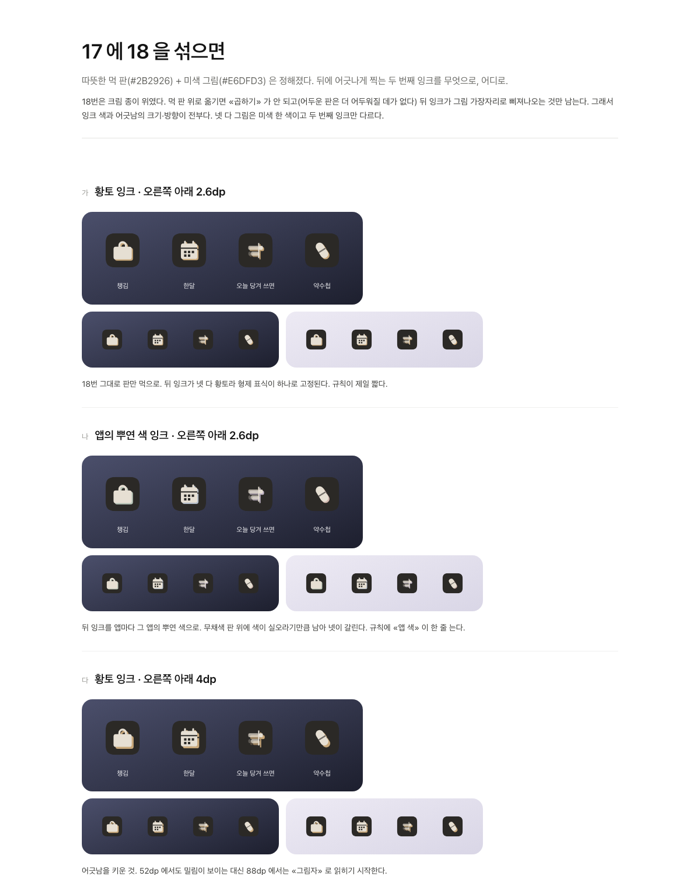
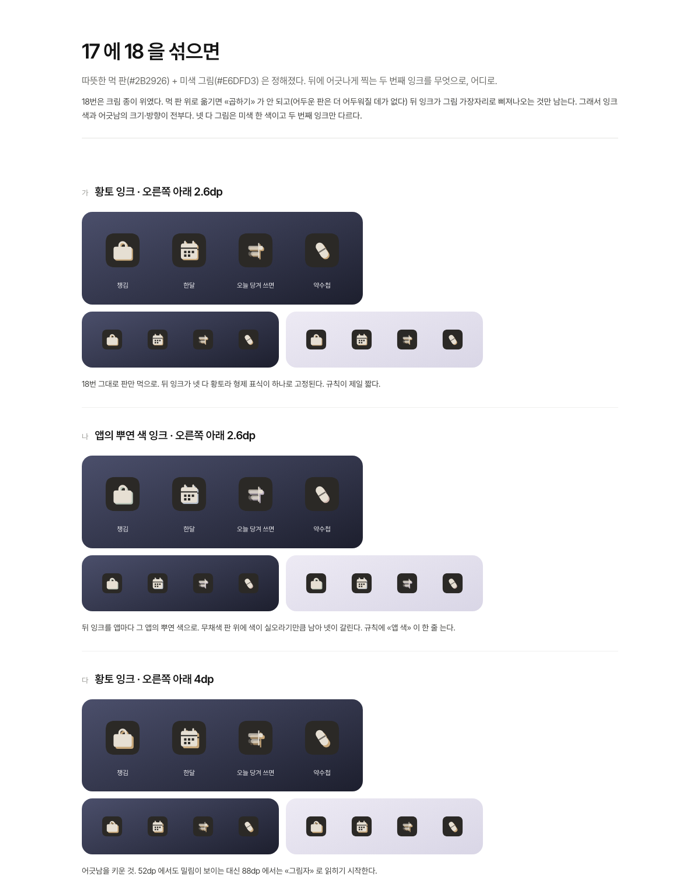
약수첩 설명서 갱신 — 작게, 설명선이 내용을 안 덮게 (#4)

diff --git a/public/p/pillbox/manual.html b/public/p/pillbox/manual.html
@@ -3,176 +3,198 @@
 <link href="https://cdn.jsdelivr.net/gh/orioncactus/pretendard@v1.3.9/dist/web/static/pretendard.min.css" rel="stylesheet">
 <style>
 :root{--bg:#EDEAE3;--card:#FBF9F5;--ink:#2B2926;--sec:#5A554F;--mut:#8F887D;--acc:#A8834F;--num:#C9A87A;--rule:#E4DFD5}
-*{box-sizing:border-box} body{margin:0;background:var(--bg);color:var(--ink);font:16px/1.65 "Pretendard",-apple-system,system-ui,sans-serif}
-.wrap{max-width:1160px;margin:0 auto;padding:64px 36px 120px}
-h1{font-size:46px;letter-spacing:-.02em;font-weight:700;margin:0 0 4px}
+*{box-sizing:border-box} body{margin:0;background:var(--bg);color:var(--ink);font:15px/1.65 "Pretendard",-apple-system,system-ui,sans-serif}
+.wrap{max-width:960px;margin:0 auto;padding:56px 32px 100px}
+h1{font-size:38px;letter-spacing:-.02em;font-weight:700;margin:0 0 4px}
 .tag{color:var(--mut);font-size:17px;margin:0 0 30px}
-h2{font-size:24px;font-weight:700;margin:64px 0 12px}
-.cap{color:var(--sec);font-size:16px;margin:8px 0 0;width:53.20%} .cap.wide{width:auto;margin-top:18px}
+h2{font-size:21px;font-weight:700;margin:52px 0 10px}
+.cap{color:var(--sec);font-size:15px;margin:8px 0 0;width:55.10%} .cap.wide{width:auto;margin-top:18px}
 .lead{color:var(--sec);margin:-4px 0 12px}
 svg.fig{display:block;width:100%;height:auto;margin:6px 0 0} svg.fig text{font-family:"Pretendard",-apple-system,system-ui,sans-serif}
-.hero{display:block;width:53.20%;border-radius:26px;border:1px solid var(--rule)}
+.hero{display:block;width:55.10%;border-radius:26px;border:1px solid var(--rule)}
 .hero.none{padding:40px 24px;color:var(--mut);background:var(--card);font-size:14px}
-.steps{display:grid;grid-template-columns:repeat(3,1fr);gap:14px;margin:14px 0 0;width:53.20%}
+.steps{display:grid;grid-template-columns:repeat(3,1fr);gap:14px;margin:14px 0 0;width:55.10%}
 .step{background:var(--card);border-radius:18px;padding:18px 18px 16px;border:1px solid var(--rule)}
 .step b{display:block;font-size:24px;color:var(--num);margin-bottom:4px} .step span{display:block;font-weight:700} .step i{font-style:normal;color:var(--mut);font-size:14px}
 .cases{display:grid;grid-template-columns:repeat(2,1fr);gap:14px;margin:14px 0 0}
 .case{background:var(--card);border-radius:18px;padding:18px 20px;border:1px solid var(--rule)} .case b{display:block;margin-bottom:4px} .case p{margin:0;color:var(--sec);font-size:15px}
 .moment{background:var(--card);border:1px solid var(--rule);border-radius:26px;padding:22px 26px 26px;margin:18px 0 0}
-.moment h2{margin:0 0 10px;font-size:22px}
+.moment h2{margin:0 0 8px;font-size:19px}
 .foot{color:var(--mut);font-size:13.5px;margin-top:48px}
 @media (max-width:760px){.wrap{padding:32px 16px 80px} .hero,.steps,.cap{width:100%} .cases,.steps{grid-template-columns:1fr}}
 </style></head><body><div class="wrap">
-<h1>약수첩</h1><p class="tag">먹고 바르고 넣는 약을 홈 화면에서 챙긴다</p><img class="hero" src="img/widget.png" alt=""><p class="cap">홈 화면 위젯. 윗줄이 지금 구간의 약, 아랫줄이 나머지 셋 — 다 챙겼으면 체크, 남았으면 개수. 맨 아래 인공눈물 띠는 두 번 누른다. 여기서 보고, 앱에서 누른다.</p><h2>처음 세 걸음</h2><div class="steps"><div class="step"><b>1</b><span>약을 넣는다</span><i>약 목록에서 이름 · 모양 · 색 · 언제</i></div><div class="step"><b>2</b><span>위젯을 올린다</span><i>홈 화면에 2칸짜리</i></div><div class="step"><b>3</b><span>먹고 누른다</span><i>앱에서 체크, 인공눈물은 띠에서</i></div></div><h2>이럴 때 이렇게</h2><div class="cases"><div class="case"><b>아침에 먹고</b><p>앱을 열어 아침 카드의 줄을 눌러요. 영양제 넷은 한 번에. 5시 20분이 돼도 알림은 안 와요 — 이미 했으니까.</p></div><div class="case"><b>깜빡했을 때</b><p>구간 시각에 알림이 하나. 남은 것 이름만 적혀 있고, <b>먹었어요</b> 를 누르면 그 구간이 통째로 체크돼요. 정해 둔 시간이 지나면 알림은 스스로 사라져요.</p></div><div class="case"><b>인공눈물을 넣고</b><p>위젯 띠를 두 번. 한 번은 «한 번 더 눌러서 확정», 4초 안에 한 번 더. 간격(기본 60분)이 지나면 물방울이 빨개져요.</p></div><div class="case"><b>잘못 눌렀을 때</b><p>몇 분 안엔 같은 줄을 다시 눌러요(기본 5분). 지나면 그대로 굳어요 — 잘못 눌렀을 때만 고치라고 두는 시간이에요.</p></div><div class="case"><b>늦게라도</b><p>타일은 자정까지 눌러 채울 수 있어요. 알림이 사라진 뒤에도요.</p></div><div class="case"><b>토요일 아침</b><p>일주일치 약통을 채우라는 알림. 매일 챙기는 일이 아니라 위젯엔 안 서요. <b>채웠어요</b> 를 누르면 기록에 남아요.</p></div></div><section class="moment"><h2>아침에 먹고 나서</h2><svg class="fig" viewBox="0 0 2030 1842" xmlns="http://www.w3.org/2000/svg" xmlns:xlink="http://www.w3.org/1999/xlink" role="img">
+<h1>약수첩</h1><p class="tag">먹고 바르고 넣는 약을 홈 화면에서 챙긴다</p><img class="hero" src="img/widget.png" alt=""><p class="cap">홈 화면 위젯. 윗줄이 지금 구간의 약, 아랫줄이 나머지 셋 — 다 챙겼으면 체크, 남았으면 개수. 맨 아래 인공눈물 띠는 두 번 누른다. 여기서 보고, 앱에서 누른다.</p><h2>처음 세 걸음</h2><div class="steps"><div class="step"><b>1</b><span>약을 넣는다</span><i>약 목록에서 이름 · 모양 · 색 · 언제</i></div><div class="step"><b>2</b><span>위젯을 올린다</span><i>홈 화면에 2칸짜리</i></div><div class="step"><b>3</b><span>먹고 누른다</span><i>앱에서 체크, 인공눈물은 띠에서</i></div></div><h2>이럴 때 이렇게</h2><div class="cases"><div class="case"><b>아침에 먹고</b><p>앱을 열어 아침 카드의 줄을 눌러요. 영양제 넷은 한 번에. 5시 20분이 돼도 알림은 안 와요 — 이미 했으니까.</p></div><div class="case"><b>깜빡했을 때</b><p>구간 시각에 알림이 하나. 남은 것 이름만 적혀 있고, <b>먹었어요</b> 를 누르면 그 구간이 통째로 체크돼요. 정해 둔 시간이 지나면 알림은 스스로 사라져요.</p></div><div class="case"><b>인공눈물을 넣고</b><p>위젯 띠를 두 번. 한 번은 «한 번 더 눌러서 확정», 4초 안에 한 번 더. 간격(기본 60분)이 지나면 물방울이 빨개져요.</p></div><div class="case"><b>잘못 눌렀을 때</b><p>몇 분 안엔 같은 줄을 다시 눌러요(기본 5분). 지나면 그대로 굳어요 — 잘못 눌렀을 때만 고치라고 두는 시간이에요.</p></div><div class="case"><b>늦게라도</b><p>타일은 자정까지 눌러 채울 수 있어요. 알림이 사라진 뒤에도요.</p></div><div class="case"><b>토요일 아침</b><p>일주일치 약통을 채우라는 알림. 매일 챙기는 일이 아니라 위젯엔 안 서요. <b>채웠어요</b> 를 누르면 기록에 남아요.</p></div></div><section class="moment"><h2>아침에 먹고 나서</h2><svg class="fig" viewBox="0 0 1960 1842" xmlns="http://www.w3.org/2000/svg" xmlns:xlink="http://www.w3.org/1999/xlink" role="img">
 <clipPath id="cp_main_top"><rect x="0" y="0" width="1080" height="1842" rx="36"/></clipPath>
 <image href="img/main_top.png" xlink:href="img/main_top.png" x="0" y="0" width="1080" height="1920" clip-path="url(#cp_main_top)"/>
 <rect x="2" y="2" width="1076" height="1838" rx="34" fill="none" stroke="#E4DFD5" stroke-width="4"/>
-<ellipse cx="910.0" cy="460.0" rx="84.0" ry="39.0" fill="none" stroke="#A8834F" stroke-width="5"/>
-<path d="M 998 460.0 H 1115.0 V 438.0 H 1134" fill="none" stroke="#A8834F" stroke-width="4"/>
-<circle cx="998" cy="460.0" r="9" fill="#A8834F"/>
-<text x="1150" y="452.0" font-size="40" font-weight="700" fill="#2B2926">구간이 끝나면 «다 했어요»</text>
-<text x="1150" y="510.0" font-size="33" fill="#5A554F">구간마다 카드 하나. 이름 옆이 알림 시각이에요.</text>
-<ellipse cx="885.5" cy="614.0" rx="108.5" ry="40.0" fill="none" stroke="#A8834F" stroke-width="5"/>
-<path d="M 998 614.0 H 1115.0 V 592.0 H 1134" fill="none" stroke="#A8834F" stroke-width="4"/>
-<circle cx="998" cy="614.0" r="9" fill="#A8834F"/>
-<text x="1150" y="606.0" font-size="40" font-weight="700" fill="#2B2926">줄을 누르면 체크</text>
-<text x="1150" y="664.0" font-size="33" fill="#5A554F">시각이 남고, 몇 분 안엔 다시 눌러 되돌려요.</text>
-<rect x="218" y="993" width="589" height="80" rx="18" fill="none" stroke="#A8834F" stroke-width="5"/>
-<path d="M 817 1033.0 H 1115.0 V 1011.0 H 1134" fill="none" stroke="#A8834F" stroke-width="4"/>
-<circle cx="817" cy="1033.0" r="9" fill="#A8834F"/>
-<text x="1150" y="1025.0" font-size="40" font-weight="700" fill="#2B2926">영양제는 한 줄</text>
-<text x="1150" y="1083.0" font-size="33" fill="#5A554F">한 번에 먹으니 한 번에 체크돼요.</text>
-<ellipse cx="916.0" cy="1677.0" rx="78.0" ry="39.0" fill="none" stroke="#A8834F" stroke-width="5"/>
-<path d="M 998 1677.0 H 1115.0 V 1655.0 H 1134" fill="none" stroke="#A8834F" stroke-width="4"/>
-<circle cx="998" cy="1677.0" r="9" fill="#A8834F"/>
-<text x="1150" y="1669.0" font-size="40" font-weight="700" fill="#2B2926">지금 구간은 밝은 판</text>
-<text x="1150" y="1727.0" font-size="33" fill="#5A554F">남은 개수가 서요.</text>
-</svg></section><section class="moment"><h2>인공눈물과 타임라인</h2><svg class="fig" viewBox="0 0 2030 1884" xmlns="http://www.w3.org/2000/svg" xmlns:xlink="http://www.w3.org/1999/xlink" role="img">
+<rect x="834" y="427" width="152" height="66" rx="14" fill="#A8834F" opacity=".16"/>
+<path d="M 988 460.0 H 1080" stroke="#A8834F" stroke-width="2" stroke-dasharray="5 7" opacity=".55"/>
+<path d="M 1080 460.0 H 1110.0 V 441.0 H 1126" fill="none" stroke="#A8834F" stroke-width="3"/>
+<circle cx="1080" cy="460.0" r="7" fill="#A8834F"/>
+<text x="1140" y="453.0" font-size="34" font-weight="700" fill="#2B2926">구간이 끝나면 «다 했어요»</text>
+<text x="1140" y="501.0" font-size="28" fill="#5A554F">구간마다 카드 하나. 이름 옆이 알림 시각이에요.</text>
+<rect x="785" y="580" width="201" height="68" rx="14" fill="#A8834F" opacity=".16"/>
+<path d="M 988 614.0 H 1080" stroke="#A8834F" stroke-width="2" stroke-dasharray="5 7" opacity=".55"/>
+<path d="M 1080 614.0 H 1110.0 V 595.0 H 1126" fill="none" stroke="#A8834F" stroke-width="3"/>
+<circle cx="1080" cy="614.0" r="7" fill="#A8834F"/>
+<text x="1140" y="607.0" font-size="34" font-weight="700" fill="#2B2926">줄을 누르면 체크</text>
+<text x="1140" y="655.0" font-size="28" fill="#5A554F">시각이 남고, 몇 분 안엔 다시 눌러 되돌려요.</text>
+<rect x="220" y="995" width="585" height="76" rx="14" fill="#A8834F" opacity=".16"/>
+<path d="M 807 1033.0 H 1080" stroke="#A8834F" stroke-width="2" stroke-dasharray="5 7" opacity=".55"/>
+<path d="M 1080 1033.0 H 1110.0 V 1014.0 H 1126" fill="none" stroke="#A8834F" stroke-width="3"/>
+<circle cx="1080" cy="1033.0" r="7" fill="#A8834F"/>
+<text x="1140" y="1026.0" font-size="34" font-weight="700" fill="#2B2926">영양제는 한 줄</text>
+<text x="1140" y="1074.0" font-size="28" fill="#5A554F">한 번에 먹으니 한 번에 체크돼요.</text>
+<rect x="846" y="1644" width="140" height="66" rx="14" fill="#A8834F" opacity=".16"/>
+<path d="M 988 1677.0 H 1080" stroke="#A8834F" stroke-width="2" stroke-dasharray="5 7" opacity=".55"/>
+<path d="M 1080 1677.0 H 1110.0 V 1658.0 H 1126" fill="none" stroke="#A8834F" stroke-width="3"/>
+<circle cx="1080" cy="1677.0" r="7" fill="#A8834F"/>
+<text x="1140" y="1670.0" font-size="34" font-weight="700" fill="#2B2926">지금 구간은 밝은 판</text>
+<text x="1140" y="1718.0" font-size="28" fill="#5A554F">남은 개수가 서요.</text>
+</svg></section><section class="moment"><h2>인공눈물과 타임라인</h2><svg class="fig" viewBox="0 0 1960 1884" xmlns="http://www.w3.org/2000/svg" xmlns:xlink="http://www.w3.org/1999/xlink" role="img">
 <clipPath id="cp_main_tail"><rect x="0" y="0" width="1080" height="1884" rx="36"/></clipPath>
 <image href="img/main_tail.png" xlink:href="img/main_tail.png" x="0" y="0" width="1080" height="1920" clip-path="url(#cp_main_tail)"/>
 <rect x="2" y="2" width="1076" height="1880" rx="34" fill="none" stroke="#E4DFD5" stroke-width="4"/>
-<rect x="87" y="663" width="906" height="146" rx="18" fill="none" stroke="#A8834F" stroke-width="5"/>
-<path d="M 1003 736.0 H 1115.0 V 691.0 H 1134" fill="none" stroke="#A8834F" stroke-width="4"/>
-<circle cx="1003" cy="736.0" r="9" fill="#A8834F"/>
-<text x="1150" y="705.0" font-size="40" font-weight="700" fill="#2B2926">넣을 때 한 번</text>
-<text x="1150" y="763.0" font-size="33" fill="#5A554F">위젯 띠를 두 번 눌러도 같아요. 위가 마지막으로 넣은</text>
-<text x="1150" y="809.0" font-size="33" fill="#5A554F">때예요.</text>
-<rect x="54" y="898" width="840" height="85" rx="18" fill="none" stroke="#A8834F" stroke-width="5"/>
-<path d="M 904 940.5 H 1115.0 V 895.5 H 1134" fill="none" stroke="#A8834F" stroke-width="4"/>
-<circle cx="904" cy="940.5" r="9" fill="#A8834F"/>
-<text x="1150" y="909.5" font-size="40" font-weight="700" fill="#2B2926">오늘 한 일이 시간순으로</text>
-<text x="1150" y="967.5" font-size="33" fill="#5A554F">약은 같은 분끼리 한 줄, 인공눈물은 따로. 잘못 든</text>
-<text x="1150" y="1013.5" font-size="33" fill="#5A554F">줄은 꾹 눌러 지워요.</text>
-<ellipse cx="948.0" cy="940.0" rx="84.0" ry="39.0" fill="none" stroke="#A8834F" stroke-width="5"/>
-<path d="M 1036 940.0 H 1115.0 V 1085.5 H 1134" fill="none" stroke="#A8834F" stroke-width="4"/>
-<circle cx="1036" cy="940.0" r="9" fill="#A8834F"/>
-<text x="1150" y="1099.5" font-size="40" font-weight="700" fill="#2B2926">어제부터는 여기서</text>
-<text x="1150" y="1157.5" font-size="33" fill="#5A554F">챙긴 것은 영구히 남아요.</text>
-<rect x="43" y="1608" width="496" height="146" rx="18" fill="none" stroke="#A8834F" stroke-width="5"/>
-<path d="M 549 1681.0 H 1115.0 V 1659.0 H 1134" fill="none" stroke="#A8834F" stroke-width="4"/>
-<circle cx="549" cy="1681.0" r="9" fill="#A8834F"/>
-<text x="1150" y="1673.0" font-size="40" font-weight="700" fill="#2B2926">약을 넣고 빼는 곳</text>
-<text x="1150" y="1731.0" font-size="33" fill="#5A554F">«설정» 은 언제 알릴지예요.</text>
-</svg></section><section class="moment"><h2>지난 기록</h2><svg class="fig" viewBox="0 0 2030 1920" xmlns="http://www.w3.org/2000/svg" xmlns:xlink="http://www.w3.org/1999/xlink" role="img">
+<rect x="89" y="665" width="902" height="142" rx="14" fill="#A8834F" opacity=".16"/>
+<path d="M 993 736.0 H 1080" stroke="#A8834F" stroke-width="2" stroke-dasharray="5 7" opacity=".55"/>
+<path d="M 1080 736.0 H 1110.0 V 717.0 H 1126" fill="none" stroke="#A8834F" stroke-width="3"/>
+<circle cx="1080" cy="736.0" r="7" fill="#A8834F"/>
+<text x="1140" y="729.0" font-size="34" font-weight="700" fill="#2B2926">넣을 때 한 번</text>
+<text x="1140" y="777.0" font-size="28" fill="#5A554F">위젯 띠를 두 번 눌러도 같아요. 위가 마지막으로 넣은 때예요.</text>
+<rect x="56" y="900" width="836" height="81" rx="14" fill="#A8834F" opacity=".16"/>
+<path d="M 894 940.5 H 1080" stroke="#A8834F" stroke-width="2" stroke-dasharray="5 7" opacity=".55"/>
+<path d="M 1080 940.5 H 1110.0 V 901.5 H 1126" fill="none" stroke="#A8834F" stroke-width="3"/>
+<circle cx="1080" cy="940.5" r="7" fill="#A8834F"/>
+<text x="1140" y="913.5" font-size="34" font-weight="700" fill="#2B2926">오늘 한 일이 시간순으로</text>
+<text x="1140" y="961.5" font-size="28" fill="#5A554F">약은 같은 분끼리 한 줄, 인공눈물은 따로. 잘못 든 줄은 꾹</text>
+<text x="1140" y="1001.5" font-size="28" fill="#5A554F">눌러 지워요.</text>
+<rect x="872" y="907" width="152" height="66" rx="14" fill="#A8834F" opacity=".16"/>
+<path d="M 1026 940.0 H 1080" stroke="#A8834F" stroke-width="2" stroke-dasharray="5 7" opacity=".55"/>
+<path d="M 1080 940.0 H 1110.0 V 1071.5 H 1126" fill="none" stroke="#A8834F" stroke-width="3"/>
+<circle cx="1080" cy="940.0" r="7" fill="#A8834F"/>
+<text x="1140" y="1083.5" font-size="34" font-weight="700" fill="#2B2926">어제부터는 여기서</text>
+<text x="1140" y="1131.5" font-size="28" fill="#5A554F">챙긴 것은 영구히 남아요.</text>
+<rect x="45" y="1610" width="492" height="142" rx="14" fill="#A8834F" opacity=".16"/>
+<path d="M 539 1681.0 H 1080" stroke="#A8834F" stroke-width="2" stroke-dasharray="5 7" opacity=".55"/>
+<path d="M 1080 1681.0 H 1110.0 V 1662.0 H 1126" fill="none" stroke="#A8834F" stroke-width="3"/>
+<circle cx="1080" cy="1681.0" r="7" fill="#A8834F"/>
+<text x="1140" y="1674.0" font-size="34" font-weight="700" fill="#2B2926">약을 넣고 빼는 곳</text>
+<text x="1140" y="1722.0" font-size="28" fill="#5A554F">«설정» 은 언제 알릴지예요.</text>
+</svg></section><section class="moment"><h2>지난 기록</h2><svg class="fig" viewBox="0 0 1960 1920" xmlns="http://www.w3.org/2000/svg" xmlns:xlink="http://www.w3.org/1999/xlink" role="img">
 <clipPath id="cp_history"><rect x="0" y="0" width="1080" height="1920" rx="36"/></clipPath>
 <image href="img/history.png" xlink:href="img/history.png" x="0" y="0" width="1080" height="1920" clip-path="url(#cp_history)"/>
 <rect x="2" y="2" width="1076" height="1916" rx="34" fill="none" stroke="#E4DFD5" stroke-width="4"/>
-<rect x="43" y="253" width="994" height="70" rx="18" fill="none" stroke="#A8834F" stroke-width="5"/>
-<path d="M 1047 288.0 H 1115.0 V 266.0 H 1134" fill="none" stroke="#A8834F" stroke-width="4"/>
-<circle cx="1047" cy="288.0" r="9" fill="#A8834F"/>
-<text x="1150" y="280.0" font-size="40" font-weight="700" fill="#2B2926">얼마나 쌓였나</text>
-<text x="1150" y="338.0" font-size="33" fill="#5A554F">자정에 지워지는 건 «오늘 다 했나» 뿐이에요.</text>
-<ellipse cx="957.0" cy="449.5" rx="48.0" ry="38.5" fill="none" stroke="#A8834F" stroke-width="5"/>
-<path d="M 1009 449.5 H 1115.0 V 427.5 H 1134" fill="none" stroke="#A8834F" stroke-width="4"/>
-<circle cx="1009" cy="449.5" r="9" fill="#A8834F"/>
-<text x="1150" y="441.5" font-size="40" font-weight="700" fill="#2B2926">날짜마다 접고 펴요</text>
-<text x="1150" y="499.5" font-size="33" fill="#5A554F">머리줄에 그날 약 몇 번 · 인공눈물 몇 번.</text>
-<rect x="81" y="1818" width="828" height="65" rx="18" fill="none" stroke="#A8834F" stroke-width="5"/>
-<path d="M 919 1850.5 H 1115.0 V 1828.5 H 1134" fill="none" stroke="#A8834F" stroke-width="4"/>
-<circle cx="919" cy="1850.5" r="9" fill="#A8834F"/>
-<text x="1150" y="1842.5" font-size="40" font-weight="700" fill="#2B2926">약통 채운 것도</text>
-<text x="1150" y="1900.5" font-size="33" fill="#5A554F">알림에서 «채웠어요» 를 누르면 남아요.</text>
-</svg></section><section class="moment"><h2>언제 알릴지</h2><svg class="fig" viewBox="0 0 2030 1669" xmlns="http://www.w3.org/2000/svg" xmlns:xlink="http://www.w3.org/1999/xlink" role="img">
+<rect x="45" y="255" width="990" height="66" rx="14" fill="#A8834F" opacity=".16"/>
+<path d="M 1037 288.0 H 1080" stroke="#A8834F" stroke-width="2" stroke-dasharray="5 7" opacity=".55"/>
+<path d="M 1080 288.0 H 1110.0 V 269.0 H 1126" fill="none" stroke="#A8834F" stroke-width="3"/>
+<circle cx="1080" cy="288.0" r="7" fill="#A8834F"/>
+<text x="1140" y="281.0" font-size="34" font-weight="700" fill="#2B2926">얼마나 쌓였나</text>
+<text x="1140" y="329.0" font-size="28" fill="#5A554F">자정에 지워지는 건 «오늘 다 했나» 뿐이에요.</text>
+<rect x="917" y="417" width="80" height="65" rx="14" fill="#A8834F" opacity=".16"/>
+<path d="M 999 449.5 H 1080" stroke="#A8834F" stroke-width="2" stroke-dasharray="5 7" opacity=".55"/>
+<path d="M 1080 449.5 H 1110.0 V 430.5 H 1126" fill="none" stroke="#A8834F" stroke-width="3"/>
+<circle cx="1080" cy="449.5" r="7" fill="#A8834F"/>
+<text x="1140" y="442.5" font-size="34" font-weight="700" fill="#2B2926">날짜마다 접고 펴요</text>
+<text x="1140" y="490.5" font-size="28" fill="#5A554F">머리줄에 그날 약 몇 번 · 인공눈물 몇 번.</text>
+<rect x="83" y="1820" width="824" height="61" rx="14" fill="#A8834F" opacity=".16"/>
+<path d="M 909 1850.5 H 1080" stroke="#A8834F" stroke-width="2" stroke-dasharray="5 7" opacity=".55"/>
+<path d="M 1080 1850.5 H 1110.0 V 1831.5 H 1126" fill="none" stroke="#A8834F" stroke-width="3"/>
+<circle cx="1080" cy="1850.5" r="7" fill="#A8834F"/>
+<text x="1140" y="1843.5" font-size="34" font-weight="700" fill="#2B2926">약통 채운 것도</text>
+<text x="1140" y="1891.5" font-size="28" fill="#5A554F">알림에서 «채웠어요» 를 누르면 남아요.</text>
+</svg></section><section class="moment"><h2>언제 알릴지</h2><svg class="fig" viewBox="0 0 1960 1669" xmlns="http://www.w3.org/2000/svg" xmlns:xlink="http://www.w3.org/1999/xlink" role="img">
 <clipPath id="cp_settings_top"><rect x="0" y="0" width="1080" height="1669" rx="36"/></clipPath>
 <image href="img/settings_top.png" xlink:href="img/settings_top.png" x="0" y="0" width="1080" height="1920" clip-path="url(#cp_settings_top)"/>
 <rect x="2" y="2" width="1076" height="1665" rx="34" fill="none" stroke="#E4DFD5" stroke-width="4"/>
-<rect x="54" y="539" width="852" height="80" rx="18" fill="none" stroke="#A8834F" stroke-width="5"/>
-<path d="M 916 579.0 H 1115.0 V 557.0 H 1134" fill="none" stroke="#A8834F" stroke-width="4"/>
-<circle cx="916" cy="579.0" r="9" fill="#A8834F"/>
-<text x="1150" y="571.0" font-size="40" font-weight="700" fill="#2B2926">끄면 위젯만</text>
-<text x="1150" y="629.0" font-size="33" fill="#5A554F">알림 없이 위젯으로만 써요.</text>
-<rect x="43" y="741" width="994" height="92" rx="18" fill="none" stroke="#A8834F" stroke-width="5"/>
-<path d="M 1047 787.0 H 1115.0 V 765.0 H 1134" fill="none" stroke="#A8834F" stroke-width="4"/>
-<circle cx="1047" cy="787.0" r="9" fill="#A8834F"/>
-<text x="1150" y="779.0" font-size="40" font-weight="700" fill="#2B2926">이 시각에 안 챙긴 게 있으면</text>
-<text x="1150" y="837.0" font-size="33" fill="#5A554F">알림이 와요. 미리 했으면 안 와요.</text>
-<ellipse cx="967.5" cy="971.0" rx="64.5" ry="39.0" fill="none" stroke="#A8834F" stroke-width="5"/>
-<path d="M 1036 971.0 H 1115.0 V 949.0 H 1134" fill="none" stroke="#A8834F" stroke-width="4"/>
-<circle cx="1036" cy="971.0" r="9" fill="#A8834F"/>
-<text x="1150" y="963.0" font-size="40" font-weight="700" fill="#2B2926">시각만 고쳐요</text>
-<text x="1150" y="1021.0" font-size="33" fill="#5A554F">구간 이름은 못 바꿔요.</text>
-<rect x="43" y="1447" width="994" height="92" rx="18" fill="none" stroke="#A8834F" stroke-width="5"/>
-<path d="M 1047 1493.0 H 1115.0 V 1471.0 H 1134" fill="none" stroke="#A8834F" stroke-width="4"/>
-<circle cx="1047" cy="1493.0" r="9" fill="#A8834F"/>
-<text x="1150" y="1485.0" font-size="40" font-weight="700" fill="#2B2926">알림이 사라지기까지</text>
-<text x="1150" y="1543.0" font-size="33" fill="#5A554F">그 구간이 지나면 소용없어서요.</text>
-</svg></section><section class="moment"><h2>인공눈물과 되돌리기</h2><svg class="fig" viewBox="0 0 2030 1054" xmlns="http://www.w3.org/2000/svg" xmlns:xlink="http://www.w3.org/1999/xlink" role="img">
+<rect x="56" y="541" width="848" height="76" rx="14" fill="#A8834F" opacity=".16"/>
+<path d="M 906 579.0 H 1080" stroke="#A8834F" stroke-width="2" stroke-dasharray="5 7" opacity=".55"/>
+<path d="M 1080 579.0 H 1110.0 V 560.0 H 1126" fill="none" stroke="#A8834F" stroke-width="3"/>
+<circle cx="1080" cy="579.0" r="7" fill="#A8834F"/>
+<text x="1140" y="572.0" font-size="34" font-weight="700" fill="#2B2926">끄면 위젯만</text>
+<text x="1140" y="620.0" font-size="28" fill="#5A554F">알림 없이 위젯으로만 써요.</text>
+<rect x="45" y="743" width="990" height="88" rx="14" fill="#A8834F" opacity=".16"/>
+<path d="M 1037 787.0 H 1080" stroke="#A8834F" stroke-width="2" stroke-dasharray="5 7" opacity=".55"/>
+<path d="M 1080 787.0 H 1110.0 V 768.0 H 1126" fill="none" stroke="#A8834F" stroke-width="3"/>
+<circle cx="1080" cy="787.0" r="7" fill="#A8834F"/>
+<text x="1140" y="780.0" font-size="34" font-weight="700" fill="#2B2926">이 시각에 안 챙긴 게 있으면</text>
+<text x="1140" y="828.0" font-size="28" fill="#5A554F">알림이 와요. 미리 했으면 안 와요.</text>
+<rect x="911" y="938" width="113" height="66" rx="14" fill="#A8834F" opacity=".16"/>
+<path d="M 1026 971.0 H 1080" stroke="#A8834F" stroke-width="2" stroke-dasharray="5 7" opacity=".55"/>
+<path d="M 1080 971.0 H 1110.0 V 952.0 H 1126" fill="none" stroke="#A8834F" stroke-width="3"/>
+<circle cx="1080" cy="971.0" r="7" fill="#A8834F"/>
+<text x="1140" y="964.0" font-size="34" font-weight="700" fill="#2B2926">시각만 고쳐요</text>
+<text x="1140" y="1012.0" font-size="28" fill="#5A554F">구간 이름은 못 바꿔요.</text>
+<rect x="45" y="1449" width="990" height="88" rx="14" fill="#A8834F" opacity=".16"/>
+<path d="M 1037 1493.0 H 1080" stroke="#A8834F" stroke-width="2" stroke-dasharray="5 7" opacity=".55"/>
+<path d="M 1080 1493.0 H 1110.0 V 1474.0 H 1126" fill="none" stroke="#A8834F" stroke-width="3"/>
+<circle cx="1080" cy="1493.0" r="7" fill="#A8834F"/>
+<text x="1140" y="1486.0" font-size="34" font-weight="700" fill="#2B2926">알림이 사라지기까지</text>
+<text x="1140" y="1534.0" font-size="28" fill="#5A554F">그 구간이 지나면 소용없어서요.</text>
+</svg></section><section class="moment"><h2>인공눈물과 되돌리기</h2><svg class="fig" viewBox="0 0 1960 1054" xmlns="http://www.w3.org/2000/svg" xmlns:xlink="http://www.w3.org/1999/xlink" role="img">
 <clipPath id="cp_settings_bottom"><rect x="0" y="0" width="1080" height="1054" rx="36"/></clipPath>
 <image href="img/settings_bottom.png" xlink:href="img/settings_bottom.png" x="0" y="0" width="1080" height="1920" clip-path="url(#cp_settings_bottom)"/>
 <rect x="2" y="2" width="1076" height="1050" rx="34" fill="none" stroke="#E4DFD5" stroke-width="4"/>
-<rect x="43" y="196" width="994" height="118" rx="18" fill="none" stroke="#A8834F" stroke-width="5"/>
-<path d="M 1047 255.0 H 1115.0 V 233.0 H 1134" fill="none" stroke="#A8834F" stroke-width="4"/>
-<circle cx="1047" cy="255.0" r="9" fill="#A8834F"/>
-<text x="1150" y="247.0" font-size="40" font-weight="700" fill="#2B2926">인공눈물 간격</text>
-<text x="1150" y="305.0" font-size="33" fill="#5A554F">지나면 위젯 물방울이 빨개져요. 기본 60분.</text>
-<rect x="54" y="630" width="852" height="80" rx="18" fill="none" stroke="#A8834F" stroke-width="5"/>
-<path d="M 916 670.0 H 1115.0 V 648.0 H 1134" fill="none" stroke="#A8834F" stroke-width="4"/>
-<circle cx="916" cy="670.0" r="9" fill="#A8834F"/>
-<text x="1150" y="662.0" font-size="40" font-weight="700" fill="#2B2926">인공눈물도 알릴지</text>
-<text x="1150" y="720.0" font-size="33" fill="#5A554F">기본은 끔.</text>
-<rect x="43" y="832" width="994" height="92" rx="18" fill="none" stroke="#A8834F" stroke-width="5"/>
-<path d="M 1047 878.0 H 1115.0 V 856.0 H 1134" fill="none" stroke="#A8834F" stroke-width="4"/>
-<circle cx="1047" cy="878.0" r="9" fill="#A8834F"/>
-<text x="1150" y="870.0" font-size="40" font-weight="700" fill="#2B2926">되돌리기 유예</text>
-<text x="1150" y="928.0" font-size="33" fill="#5A554F">지나면 체크가 그대로 굳어요.</text>
-</svg></section><section class="moment"><h2>약 목록</h2><svg class="fig" viewBox="0 0 2030 1920" xmlns="http://www.w3.org/2000/svg" xmlns:xlink="http://www.w3.org/1999/xlink" role="img">
+<rect x="45" y="198" width="990" height="114" rx="14" fill="#A8834F" opacity=".16"/>
+<path d="M 1037 255.0 H 1080" stroke="#A8834F" stroke-width="2" stroke-dasharray="5 7" opacity=".55"/>
+<path d="M 1080 255.0 H 1110.0 V 236.0 H 1126" fill="none" stroke="#A8834F" stroke-width="3"/>
+<circle cx="1080" cy="255.0" r="7" fill="#A8834F"/>
+<text x="1140" y="248.0" font-size="34" font-weight="700" fill="#2B2926">인공눈물 간격</text>
+<text x="1140" y="296.0" font-size="28" fill="#5A554F">지나면 위젯 물방울이 빨개져요. 기본 60분.</text>
+<rect x="56" y="632" width="848" height="76" rx="14" fill="#A8834F" opacity=".16"/>
+<path d="M 906 670.0 H 1080" stroke="#A8834F" stroke-width="2" stroke-dasharray="5 7" opacity=".55"/>
+<path d="M 1080 670.0 H 1110.0 V 651.0 H 1126" fill="none" stroke="#A8834F" stroke-width="3"/>
+<circle cx="1080" cy="670.0" r="7" fill="#A8834F"/>
+<text x="1140" y="663.0" font-size="34" font-weight="700" fill="#2B2926">인공눈물도 알릴지</text>
+<text x="1140" y="711.0" font-size="28" fill="#5A554F">기본은 끔.</text>
+<rect x="45" y="834" width="990" height="88" rx="14" fill="#A8834F" opacity=".16"/>
+<path d="M 1037 878.0 H 1080" stroke="#A8834F" stroke-width="2" stroke-dasharray="5 7" opacity=".55"/>
+<path d="M 1080 878.0 H 1110.0 V 859.0 H 1126" fill="none" stroke="#A8834F" stroke-width="3"/>
+<circle cx="1080" cy="878.0" r="7" fill="#A8834F"/>
+<text x="1140" y="871.0" font-size="34" font-weight="700" fill="#2B2926">되돌리기 유예</text>
+<text x="1140" y="919.0" font-size="28" fill="#5A554F">지나면 체크가 그대로 굳어요.</text>
+</svg></section><section class="moment"><h2>약 목록</h2><svg class="fig" viewBox="0 0 1960 1920" xmlns="http://www.w3.org/2000/svg" xmlns:xlink="http://www.w3.org/1999/xlink" role="img">
 <clipPath id="cp_meds"><rect x="0" y="0" width="1080" height="1920" rx="36"/></clipPath>
 <image href="img/meds.png" xlink:href="img/meds.png" x="0" y="0" width="1080" height="1920" clip-path="url(#cp_meds)"/>
 <rect x="2" y="2" width="1076" height="1916" rx="34" fill="none" stroke="#E4DFD5" stroke-width="4"/>
-<rect x="54" y="291" width="972" height="69" rx="18" fill="none" stroke="#A8834F" stroke-width="5"/>
-<path d="M 1036 325.5 H 1115.0 V 303.5 H 1134" fill="none" stroke="#A8834F" stroke-width="4"/>
-<circle cx="1036" cy="325.5" r="9" fill="#A8834F"/>
-<text x="1150" y="317.5" font-size="40" font-weight="700" fill="#2B2926">순서가 곧 위젯</text>
-<text x="1150" y="375.5" font-size="33" fill="#5A554F">위아래 화살표로 옮겨요.</text>
-<rect x="180" y="1089" width="555" height="65" rx="18" fill="none" stroke="#A8834F" stroke-width="5"/>
-<path d="M 745 1121.5 H 1115.0 V 1099.5 H 1134" fill="none" stroke="#A8834F" stroke-width="4"/>
-<circle cx="745" cy="1121.5" r="9" fill="#A8834F"/>
-<text x="1150" y="1113.5" font-size="40" font-weight="700" fill="#2B2926">영양제 표시</text>
-<text x="1150" y="1171.5" font-size="33" fill="#5A554F">같은 구간의 영양제와 위젯에서 한 타일로 뭉쳐요.</text>
-<rect x="43" y="1682" width="994" height="146" rx="18" fill="none" stroke="#A8834F" stroke-width="5"/>
-<path d="M 1047 1755.0 H 1115.0 V 1733.0 H 1134" fill="none" stroke="#A8834F" stroke-width="4"/>
-<circle cx="1047" cy="1755.0" r="9" fill="#A8834F"/>
-<text x="1150" y="1747.0" font-size="40" font-weight="700" fill="#2B2926">새 약</text>
-<text x="1150" y="1805.0" font-size="33" fill="#5A554F">이름 · 짧은 이름 · 모양 · 색 · 언제 먹나.</text>
-</svg></section><section class="moment"><h2>약 하나 고치기</h2><svg class="fig" viewBox="0 0 2030 1278" xmlns="http://www.w3.org/2000/svg" xmlns:xlink="http://www.w3.org/1999/xlink" role="img">
+<rect x="56" y="293" width="968" height="65" rx="14" fill="#A8834F" opacity=".16"/>
+<path d="M 1026 325.5 H 1080" stroke="#A8834F" stroke-width="2" stroke-dasharray="5 7" opacity=".55"/>
+<path d="M 1080 325.5 H 1110.0 V 306.5 H 1126" fill="none" stroke="#A8834F" stroke-width="3"/>
+<circle cx="1080" cy="325.5" r="7" fill="#A8834F"/>
+<text x="1140" y="318.5" font-size="34" font-weight="700" fill="#2B2926">순서가 곧 위젯</text>
+<text x="1140" y="366.5" font-size="28" fill="#5A554F">위아래 화살표로 옮겨요.</text>
+<rect x="182" y="1091" width="551" height="61" rx="14" fill="#A8834F" opacity=".16"/>
+<path d="M 735 1121.5 H 1080" stroke="#A8834F" stroke-width="2" stroke-dasharray="5 7" opacity=".55"/>
+<path d="M 1080 1121.5 H 1110.0 V 1102.5 H 1126" fill="none" stroke="#A8834F" stroke-width="3"/>
+<circle cx="1080" cy="1121.5" r="7" fill="#A8834F"/>
+<text x="1140" y="1114.5" font-size="34" font-weight="700" fill="#2B2926">영양제 표시</text>
+<text x="1140" y="1162.5" font-size="28" fill="#5A554F">같은 구간의 영양제와 위젯에서 한 타일로 뭉쳐요.</text>
+<rect x="45" y="1684" width="990" height="142" rx="14" fill="#A8834F" opacity=".16"/>
+<path d="M 1037 1755.0 H 1080" stroke="#A8834F" stroke-width="2" stroke-dasharray="5 7" opacity=".55"/>
+<path d="M 1080 1755.0 H 1110.0 V 1736.0 H 1126" fill="none" stroke="#A8834F" stroke-width="3"/>
+<circle cx="1080" cy="1755.0" r="7" fill="#A8834F"/>
+<text x="1140" y="1748.0" font-size="34" font-weight="700" fill="#2B2926">새 약</text>
+<text x="1140" y="1796.0" font-size="28" fill="#5A554F">이름 · 짧은 이름 · 모양 · 색 · 언제 먹나.</text>
+</svg></section><section class="moment"><h2>약 하나 고치기</h2><svg class="fig" viewBox="0 0 1960 1278" xmlns="http://www.w3.org/2000/svg" xmlns:xlink="http://www.w3.org/1999/xlink" role="img">
 <clipPath id="cp_edit"><rect x="0" y="0" width="1080" height="1278" rx="36"/></clipPath>
 <image href="img/edit.png" xlink:href="img/edit.png" x="0" y="0" width="1080" height="1920" clip-path="url(#cp_edit)"/>
 <rect x="2" y="2" width="1076" height="1274" rx="34" fill="none" stroke="#E4DFD5" stroke-width="4"/>
-<rect x="257" y="347" width="780" height="70" rx="18" fill="none" stroke="#A8834F" stroke-width="5"/>
-<path d="M 1047 382.0 H 1115.0 V 360.0 H 1134" fill="none" stroke="#A8834F" stroke-width="4"/>
-<circle cx="1047" cy="382.0" r="9" fill="#A8834F"/>
-<text x="1150" y="374.0" font-size="40" font-weight="700" fill="#2B2926">위젯 타일 미리보기</text>
-<text x="1150" y="432.0" font-size="33" fill="#5A554F">모양과 색을 바꾸면 바로 따라와요.</text>
-<rect x="43" y="818" width="994" height="70" rx="18" fill="none" stroke="#A8834F" stroke-width="5"/>
-<path d="M 1047 853.0 H 1115.0 V 831.0 H 1134" fill="none" stroke="#A8834F" stroke-width="4"/>
-<circle cx="1047" cy="853.0" r="9" fill="#A8834F"/>
-<text x="1150" y="845.0" font-size="40" font-weight="700" fill="#2B2926">짧은 이름</text>
-<text x="1150" y="903.0" font-size="33" fill="#5A554F">일곱 글자까지는 자동으로 줄어 다 들어가요.</text>
-<rect x="43" y="1078" width="994" height="70" rx="18" fill="none" stroke="#A8834F" stroke-width="5"/>
-<path d="M 1047 1113.0 H 1115.0 V 1068.0 H 1134" fill="none" stroke="#A8834F" stroke-width="4"/>
-<circle cx="1047" cy="1113.0" r="9" fill="#A8834F"/>
-<text x="1150" y="1082.0" font-size="40" font-weight="700" fill="#2B2926">모양과 색을 골라</text>
-<text x="1150" y="1140.0" font-size="33" fill="#5A554F">아이콘은 그리지 않아요. «하양» 은 낮 위젯에서</text>
-<text x="1150" y="1186.0" font-size="33" fill="#5A554F">연회색으로.</text>
+<rect x="259" y="349" width="776" height="66" rx="14" fill="#A8834F" opacity=".16"/>
+<path d="M 1037 382.0 H 1080" stroke="#A8834F" stroke-width="2" stroke-dasharray="5 7" opacity=".55"/>
+<path d="M 1080 382.0 H 1110.0 V 363.0 H 1126" fill="none" stroke="#A8834F" stroke-width="3"/>
+<circle cx="1080" cy="382.0" r="7" fill="#A8834F"/>
+<text x="1140" y="375.0" font-size="34" font-weight="700" fill="#2B2926">위젯 타일 미리보기</text>
+<text x="1140" y="423.0" font-size="28" fill="#5A554F">모양과 색을 바꾸면 바로 따라와요.</text>
+<rect x="45" y="820" width="990" height="66" rx="14" fill="#A8834F" opacity=".16"/>
+<path d="M 1037 853.0 H 1080" stroke="#A8834F" stroke-width="2" stroke-dasharray="5 7" opacity=".55"/>
+<path d="M 1080 853.0 H 1110.0 V 834.0 H 1126" fill="none" stroke="#A8834F" stroke-width="3"/>
+<circle cx="1080" cy="853.0" r="7" fill="#A8834F"/>
+<text x="1140" y="846.0" font-size="34" font-weight="700" fill="#2B2926">짧은 이름</text>
+<text x="1140" y="894.0" font-size="28" fill="#5A554F">일곱 글자까지는 자동으로 줄어 다 들어가요.</text>
+<rect x="45" y="1080" width="990" height="66" rx="14" fill="#A8834F" opacity=".16"/>
+<path d="M 1037 1113.0 H 1080" stroke="#A8834F" stroke-width="2" stroke-dasharray="5 7" opacity=".55"/>
+<path d="M 1080 1113.0 H 1110.0 V 1094.0 H 1126" fill="none" stroke="#A8834F" stroke-width="3"/>
+<circle cx="1080" cy="1113.0" r="7" fill="#A8834F"/>
+<text x="1140" y="1106.0" font-size="34" font-weight="700" fill="#2B2926">모양과 색을 골라</text>
+<text x="1140" y="1154.0" font-size="28" fill="#5A554F">아이콘은 그리지 않아요. «하양» 은 낮 위젯에서 연회색으로.</text>
 </svg></section><p class="cap wide">소리 · 진동 · 잠금화면 표시는 안드로이드가 맡아요 — 설정의 «시스템 알림 설정 열기». 기록은 설정 맨 아래에서 CSV 로 내보내요. 갤럭시 S25+ · One UI 8 전용이고 스토어에 안 올려요. 코드는 <code>newhigen-labs/pillbox</code>.</p>
 </div></body></html>
